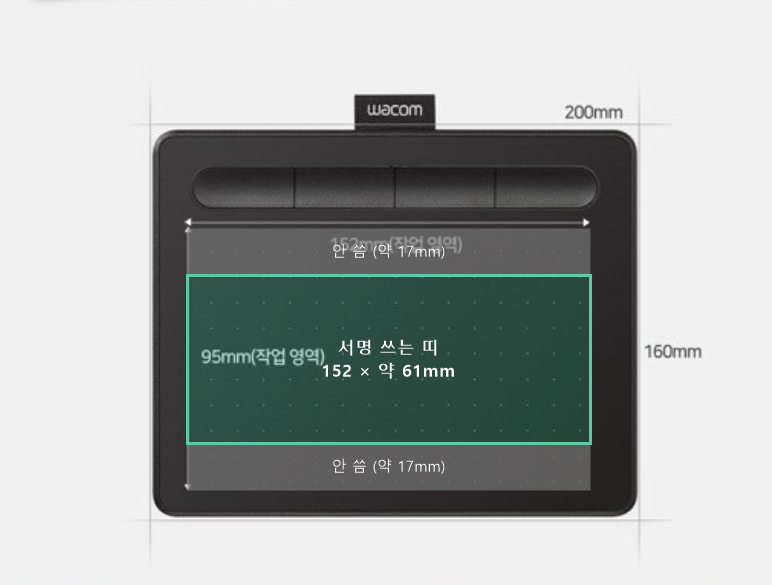
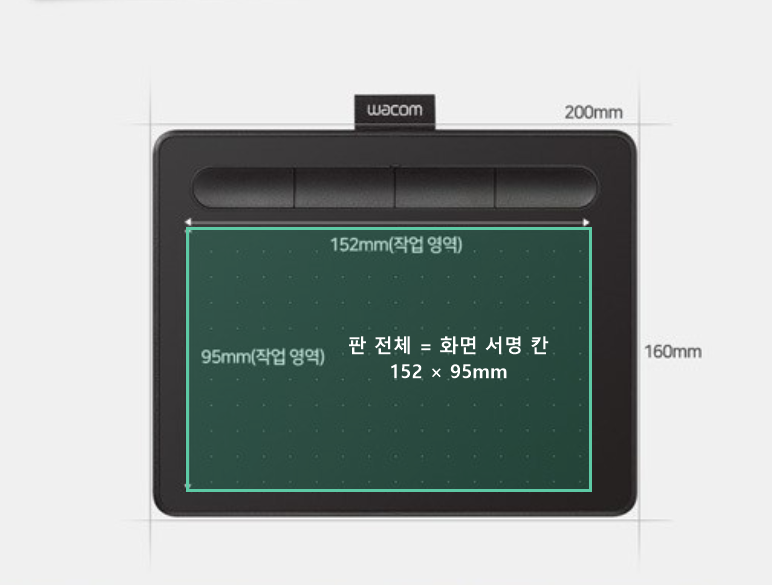
PC 서명 칸 16:10 고정: 와콤 판 전체 사용 (모바일은 그대로)

Changed region(s): [[0.2176, 0.7385, 0.7772, 0.8615], [0.2176, 0.3692, 0.7772, 0.4923], [0.4041, 0.5538, 0.715, 0.6462]]

diff --git a/assets/sign.js b/assets/sign.js
@@ -1191,8 +1191,8 @@ appSwitch(document.getElementById('appSw'), { car: function () { CARAPP.go('?car
   });
 
   /* ---------- PC 와콤 펜 (화면 없는 판, 예: CTL-4100) ----------
-     와콤 기본 설정(판 전체 = 모니터 전체) 그대로 두고, 판 가운데 가로 띠(서명 칸과 같은 비율)를 서명 칸에 맞춤.
-     펜 커서가 화면 어디에 있든 선은 서명 칸에 그려짐. 띠 밖(판 위·아래)은 안 그려짐. 서명 화면에서 펜으로는 버튼이 안 눌림(마우스로) */
+     와콤 기본 설정(판 전체 = 모니터 전체) 그대로 두고, 판을 서명 칸에 맞춤. PC 서명 칸은 판 비율(16:10)이라 판 전체 사용
+     (칸 비율이 다르면 가운데 같은 비율 부분만). 펜 커서가 화면 어디에 있든 선은 서명 칸에 그려짐. 서명 화면에서 펜으로는 버튼이 안 눌림(마우스로) */
   var TAB_W = 152, TAB_H = 95;                     // 판 작업 영역(mm)
   function tabPc() { return !!(window.matchMedia && matchMedia('(hover: hover) and (pointer: fine)').matches); }   // 마우스가 주 입력인 PC (휴대폰·태블릿 펜은 제외)
   function tabPen(e) { return e.pointerType === 'pen' && tabPc(); }
@@ -1209,7 +1209,7 @@ appSwitch(document.getElementById('appSw'), { car: function () { CARAPP.go('?car
     window.addEventListener('click', function (e) { if (on(e)) { e.preventDefault(); e.stopPropagation(); } }, true);
   }
   if (tabPc()) [].forEach.call(document.querySelectorAll('.penHint'), function (x) { x.classList.remove('hidden'); });
-  var PEN_OUT = '판 가운데 띠 안에 써 주세요.';
+  var PEN_OUT = '판 안쪽에 써 주세요.';
 
   /* ---------- 서명 패드 ---------- */
   // 획(stroke)을 '가상 좌표'로 저장해 두었다가, 화면 크기가 바뀌면(가로/세로 전환 등) 비율을 유지한 채 다시 그린다.
@@ -1218,6 +1218,7 @@ appSwitch(document.getElementById('appSw'), { car: function () { CARAPP.go('?car
 
   /* 세로 화면: 서명 칸 높이를 남은 화면에 맞춤 (160~280px) → 아래 버튼까지 한 화면에 보이게 */
   function fitPad() {
+    if (tabPc()) { cv.style.height = Math.round(cv.clientWidth * TAB_H / TAB_W + cv.offsetHeight - cv.clientHeight) + 'px'; return; }   // PC: 와콤 판 비율(16:10) → 판 전체가 서명 칸
     if (!window.matchMedia || !window.matchMedia('(orientation: portrait)').matches) { cv.style.height = ''; return; }
     var top = cv.getBoundingClientRect().top + (window.scrollY || 0);
     var acts = document.querySelector('#s2 .actions');
@@ -1911,6 +1912,7 @@ appSwitch(document.getElementById('appSw'), { car: function () { CARAPP.go('?car
   /* 세로 화면: 서명 칸 높이를 남은 화면에 맞춤 (160~280px) → 아래 버튼까지 한 화면에 보이게 (가로는 CSS) */
   skPad.fit = function () {
     var cv = $('skPad');
+    if (tabPc()) { cv.style.height = Math.round(cv.clientWidth * TAB_H / TAB_W + cv.offsetHeight - cv.clientHeight) + 'px'; return; }   // PC: 와콤 판 비율(16:10) → 판 전체가 서명 칸
     if (!window.matchMedia || !window.matchMedia('(orientation: portrait)').matches) { cv.style.height = ''; return; }
     var top = cv.getBoundingClientRect().top + (window.scrollY || 0), acts = document.querySelector('#skSig .actions');
     var h = Math.round(window.innerHeight - top - ((acts ? acts.offsetHeight : 110) + 12 + 14));

diff --git a/src/js/05-sign.js b/src/js/05-sign.js
@@ -101,8 +101,8 @@
   });
 
   /* ---------- PC 와콤 펜 (화면 없는 판, 예: CTL-4100) ----------
-     와콤 기본 설정(판 전체 = 모니터 전체) 그대로 두고, 판 가운데 가로 띠(서명 칸과 같은 비율)를 서명 칸에 맞춤.
-     펜 커서가 화면 어디에 있든 선은 서명 칸에 그려짐. 띠 밖(판 위·아래)은 안 그려짐. 서명 화면에서 펜으로는 버튼이 안 눌림(마우스로) */
+     와콤 기본 설정(판 전체 = 모니터 전체) 그대로 두고, 판을 서명 칸에 맞춤. PC 서명 칸은 판 비율(16:10)이라 판 전체 사용
+     (칸 비율이 다르면 가운데 같은 비율 부분만). 펜 커서가 화면 어디에 있든 선은 서명 칸에 그려짐. 서명 화면에서 펜으로는 버튼이 안 눌림(마우스로) */
   var TAB_W = 152, TAB_H = 95;                     // 판 작업 영역(mm)
   function tabPc() { return !!(window.matchMedia && matchMedia('(hover: hover) and (pointer: fine)').matches); }   // 마우스가 주 입력인 PC (휴대폰·태블릿 펜은 제외)
   function tabPen(e) { return e.pointerType === 'pen' && tabPc(); }
@@ -119,7 +119,7 @@
     window.addEventListener('click', function (e) { if (on(e)) { e.preventDefault(); e.stopPropagation(); } }, true);
   }
   if (tabPc()) [].forEach.call(document.querySelectorAll('.penHint'), function (x) { x.classList.remove('hidden'); });
-  var PEN_OUT = '판 가운데 띠 안에 써 주세요.';
+  var PEN_OUT = '판 안쪽에 써 주세요.';
 
   /* ---------- 서명 패드 ---------- */
   // 획(stroke)을 '가상 좌표'로 저장해 두었다가, 화면 크기가 바뀌면(가로/세로 전환 등) 비율을 유지한 채 다시 그린다.
@@ -128,6 +128,7 @@
 
   /* 세로 화면: 서명 칸 높이를 남은 화면에 맞춤 (160~280px) → 아래 버튼까지 한 화면에 보이게 */
   function fitPad() {
+    if (tabPc()) { cv.style.height = Math.round(cv.clientWidth * TAB_H / TAB_W + cv.offsetHeight - cv.clientHeight) + 'px'; return; }   // PC: 와콤 판 비율(16:10) → 판 전체가 서명 칸
     if (!window.matchMedia || !window.matchMedia('(orientation: portrait)').matches) { cv.style.height = ''; return; }
     var top = cv.getBoundingClientRect().top + (window.scrollY || 0);
     var acts = document.querySelector('#s2 .actions');

diff --git a/sign.html b/sign.html
@@ -283,7 +283,7 @@
       <div class="warn hidden" id="warn">이미 서명한 기록이 있습니다. 새로 제출하면 이전 서명이 교체됩니다.</div>
       <div class="padarea">
         <div class="padwrap"><canvas id="pad"></canvas></div>
-        <div class="hint penHint hidden">와콤 펜: 판 가운데 띠에 쓰면 이 칸에 그려집니다 (버튼은 마우스로)</div>
+        <div class="hint penHint hidden">와콤 펜: 판 전체가 이 서명 칸입니다 (버튼은 마우스로)</div>
         <div class="actions">
           <div class="row">
             <button class="btn gray" id="clear">지우기</button>
@@ -470,7 +470,7 @@
         <div class="edu" id="skSigEdu"></div>
         <div class="padarea">
           <div class="padwrap"><canvas id="skPad"></canvas></div>
-          <div class="hint penHint hidden">와콤 펜: 판 가운데 띠에 쓰면 이 칸에 그려집니다 (버튼은 마우스로)</div>
+          <div class="hint penHint hidden">와콤 펜: 판 전체가 이 서명 칸입니다 (버튼은 마우스로)</div>
           <div class="actions">
             <div class="row"><button class="btn gray" id="skClear" type="button">지우기</button><button class="btn gray" id="skSigBack" type="button">뒤로</button></div>
             <div class="row sub"><button class="btn pri" id="skSend" type="button" disabled>다음</button></div>
@@ -1005,7 +1005,7 @@
   </main>
 </section>
 </template>
-<script src="assets/sign.js?v=8149e01e52"></script>
+<script src="assets/sign.js?v=2e107d87e2"></script>
 <script src="assets/car.js?v=a8f945b775"></script>
 </body>
 </html>

diff --git a/src/body.html b/src/body.html
@@ -274,7 +274,7 @@
       <div class="warn hidden" id="warn">이미 서명한 기록이 있습니다. 새로 제출하면 이전 서명이 교체됩니다.</div>
       <div class="padarea">
         <div class="padwrap"><canvas id="pad"></canvas></div>
-        <div class="hint penHint hidden">와콤 펜: 판 가운데 띠에 쓰면 이 칸에 그려집니다 (버튼은 마우스로)</div>
+        <div class="hint penHint hidden">와콤 펜: 판 전체가 이 서명 칸입니다 (버튼은 마우스로)</div>
         <div class="actions">
           <div class="row">
             <button class="btn gray" id="clear">지우기</button>
@@ -461,7 +461,7 @@
         <div class="edu" id="skSigEdu"></div>
         <div class="padarea">
           <div class="padwrap"><canvas id="skPad"></canvas></div>
-          <div class="hint penHint hidden">와콤 펜: 판 가운데 띠에 쓰면 이 칸에 그려집니다 (버튼은 마우스로)</div>
+          <div class="hint penHint hidden">와콤 펜: 판 전체가 이 서명 칸입니다 (버튼은 마우스로)</div>
           <div class="actions">
             <div class="row"><button class="btn gray" id="skClear" type="button">지우기</button><button class="btn gray" id="skSigBack" type="button">뒤로</button></div>
             <div class="row sub"><button class="btn pri" id="skSend" type="button" disabled>다음</button></div>

diff --git a/src/js/07-safety.js b/src/js/07-safety.js
@@ -323,6 +323,7 @@
   /* 세로 화면: 서명 칸 높이를 남은 화면에 맞춤 (160~280px) → 아래 버튼까지 한 화면에 보이게 (가로는 CSS) */
   skPad.fit = function () {
     var cv = $('skPad');
+    if (tabPc()) { cv.style.height = Math.round(cv.clientWidth * TAB_H / TAB_W + cv.offsetHeight - cv.clientHeight) + 'px'; return; }   // PC: 와콤 판 비율(16:10) → 판 전체가 서명 칸
     if (!window.matchMedia || !window.matchMedia('(orientation: portrait)').matches) { cv.style.height = ''; return; }
     var top = cv.getBoundingClientRect().top + (window.scrollY || 0), acts = document.querySelector('#skSig .actions');
     var h = Math.round(window.innerHeight - top - ((acts ? acts.offsetHeight : 110) + 12 + 14));
